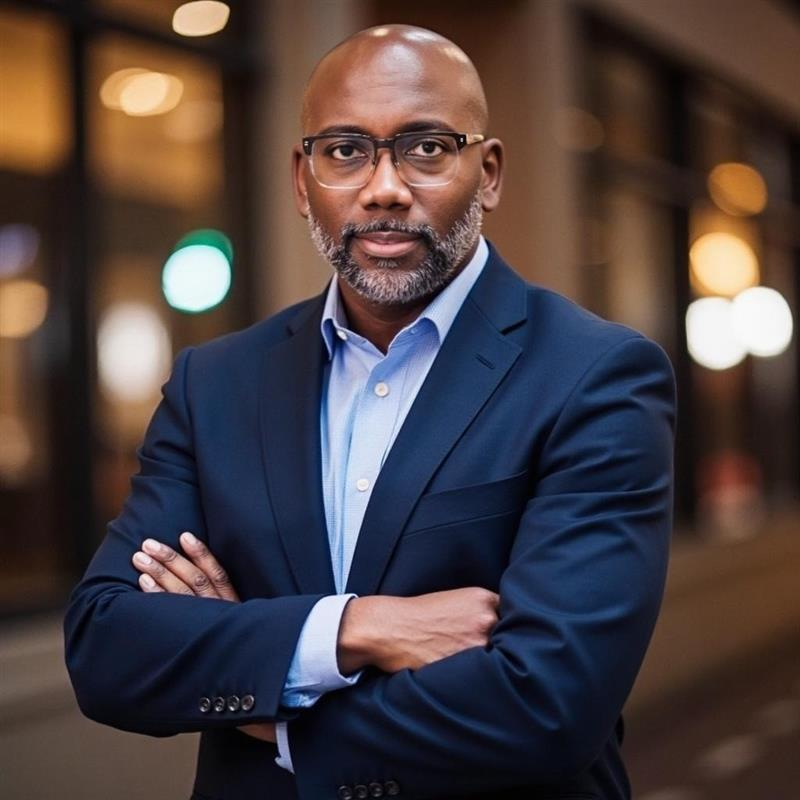
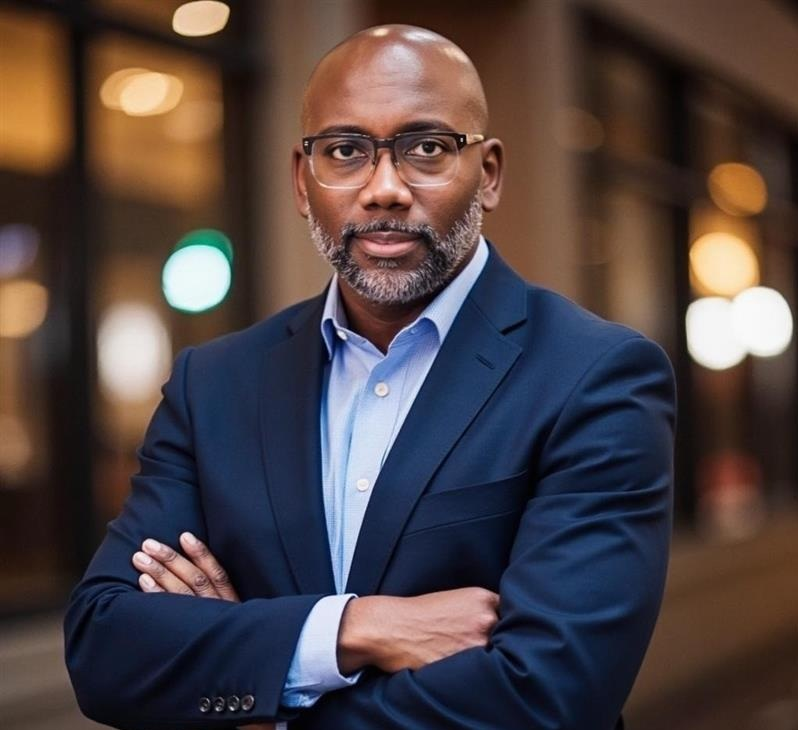
fixed image fit issue

diff --git a/app/schedule/page.tsx b/app/schedule/page.tsx
@@ -6,10 +6,12 @@ import { Footer } from '@/components/layout/footer'
 import { Button } from '@/components/ui/button'
 import { Input } from '@/components/ui/input'
 import Swal from 'sweetalert2'
+import { useCreateAppointmentMutation } from '@/redux/api/appointmentsApi'
 
 const SchedulePage = () => {
   const [selectedDate, setSelectedDate] = useState(14)
   const [selectedTime, setSelectedTime] = useState('')
+  const [createAppointment, { isLoading, isError, error }] = useCreateAppointmentMutation()
 
   const [formData, setFormData] = useState({
     fullName: '',
@@ -48,39 +50,85 @@ const SchedulePage = () => {
   const handleSubmit = (e: React.FormEvent) => {
     e.preventDefault()
     
+    if (!selectedTime) {
+      Swal.fire({
+        title: 'Time Required',
+        text: 'Please select a preferred time for your appointment.',
+        icon: 'warning',
+        confirmButtonColor: '#C9A961'
+      })
+      return
+    }
+    
+    const meetingPreferenceMap = {
+      'virtual': 'Virtual Meeting (Video Call)',
+      'phone': 'Phone Call',
+      'in-person': 'In-Person Meeting'
+    }
+    
+    const appointmentData = {
+      fullName: formData.fullName,
+      email: formData.email,
+      phone: formData.phone,
+      purpose: formData.consultationPurpose,
+      meetingPreference: meetingPreferenceMap[formData.meetingPreference as keyof typeof meetingPreferenceMap] || 'Virtual Meeting (Video Call)',
+      appointmentDate: `2024-01-${selectedDate.toString().padStart(2, '0')}`,
+      appointmentTime: selectedTime
+    }
+    
     Swal.fire({
       title: 'Confirm Appointment',
       html: `<div style="text-align: left;">
-        <p><strong>Date:</strong> January ${selectedDate}, 2025</p>
+        <p><strong>Date:</strong> January ${selectedDate}, 2024</p>
         <p><strong>Time:</strong> ${selectedTime}</p>
         <p><strong>Name:</strong> ${formData.fullName}</p>
         <p><strong>Email:</strong> ${formData.email}</p>
         <p><strong>Phone:</strong> ${formData.phone}</p>
         <p><strong>Purpose:</strong> ${formData.consultationPurpose}</p>
-        <p><strong>Meeting:</strong> ${formData.meetingPreference === 'virtual' ? 'Virtual Meeting' : formData.meetingPreference === 'phone' ? 'Phone Call' : 'In-Person Meeting'}</p>
+        <p><strong>Meeting:</strong> ${meetingPreferenceMap[formData.meetingPreference as keyof typeof meetingPreferenceMap] || 'Virtual Meeting (Video Call)'}</p>
       </div>`,
       icon: 'question',
       showCancelButton: true,
       confirmButtonColor: '#C9A961',
       cancelButtonColor: '#6b7280',
       confirmButtonText: 'Confirm',
-      cancelButtonText: 'Cancel'
+      cancelButtonText: 'Cancel',
+      showLoaderOnConfirm: true,
+      preConfirm: async () => {
+        try {
+          await createAppointment(appointmentData).unwrap()
+          return true
+        } catch (error) {
+          console.error('Appointment creation failed:', error)
+          throw error
+        }
+      }
     }).then((result) => {
       if (result.isConfirmed) {
-        console.log('Appointment confirmed:', {
-          date: selectedDate,
-          time: selectedTime,
-          ...formData
-        })
         Swal.fire({
           title: 'Confirmed!',
           text: 'Appointment confirmed successfully! We will send you a confirmation email shortly.',
           icon: 'success',
           confirmButtonColor: '#C9A961'
+        }).then(() => {
+          // Reset form after successful submission
+          setFormData({
+            fullName: '',
+            email: '',
+            phone: '',
+            consultationPurpose: '',
+            meetingPreference: 'virtual'
+          })
+          setSelectedTime('')
         })
-      } else {
-        console.log('Appointment cancelled by user')
       }
+    }).catch((error) => {
+      Swal.fire({
+        title: 'Error',
+        text: 'Failed to create appointment. Please try again or contact us directly.',
+        icon: 'error',
+        confirmButtonColor: '#C9A961'
+      })
     })
   }
 

diff --git a/redux/api/appointmentsApi.js b/redux/api/appointmentsApi.js
@@ -1,0 +1,16 @@
+import { baseApi } from "./baseApi";
+
+export const appointmentsApi = baseApi.injectEndpoints({
+  endpoints: (builder) => ({
+    createAppointment: builder.mutation({
+      query: (params) => ({
+        url: "appointments",
+        method: "POST",
+        body: params,
+      }),
+      providesTags: ["appointment"],
+    }),
+  }),
+});
+
+export const { useCreateAppointmentMutation } = appointmentsApi;

diff --git a/components/sections/meet-advisor-section.tsx b/components/sections/meet-advisor-section.tsx
@@ -20,7 +20,7 @@ export const MeetAdvisorSection: React.FC = () => {
                   alt="Advisor"
                   width={100}
                   height={100}
-                  className="w-60 h-60 object-cover rounded"
+                  className="w-50 h-50 object-cover rounded"
                 />
               </div>
             </div>
